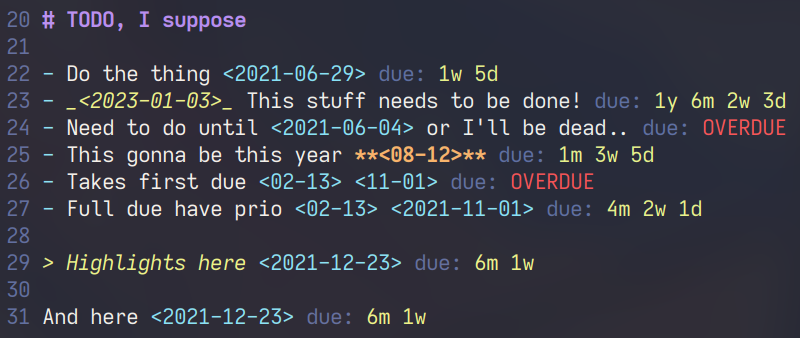
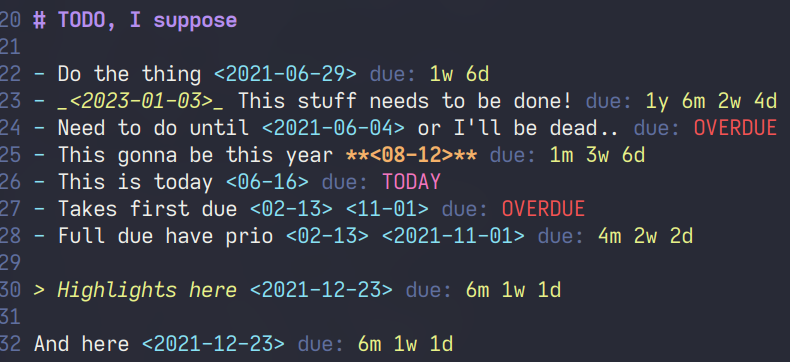
feat+fix: today & was 1 day less

Changed region(s): [[0.0, 0.0296, 1.0, 0.9763]]

diff --git a/README.md b/README.md
@@ -35,6 +35,8 @@ vim.g.due_nvim_prescript = 'due: '      -- prescript to due data
 vim.g.due_nvim_prescript_hi = 'Comment' -- highlight group of it
 vim.g.due_nvim_due_hi = 'String'        -- highlight group of the data itself
 vim.g.due_nvim_ft = '*.md'              -- filename to apply aucmds :)
+vim.g.due_nvim_today = 'TODAY'          -- text for today's due data
+vim.g.due_nvim_today_hi = 'Character'   -- highlight group of today's due
 vim.g.due_nvim_overdue = 'OVERDUE'      -- text for overdued data
 vim.g.due_nvim_overdue_hi = 'Error'     -- highlight group of overdued
 vim.g.due_nvim_date_hi = 'Conceal'      -- highlight group of date string
